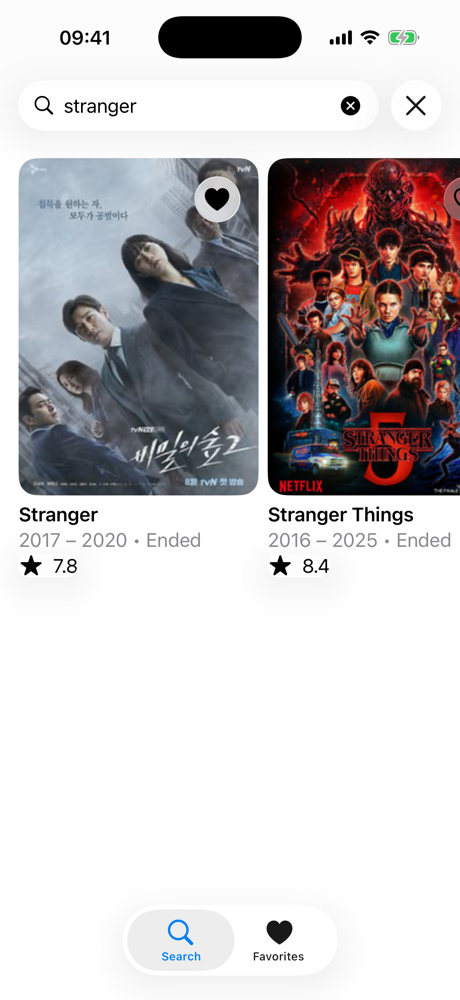
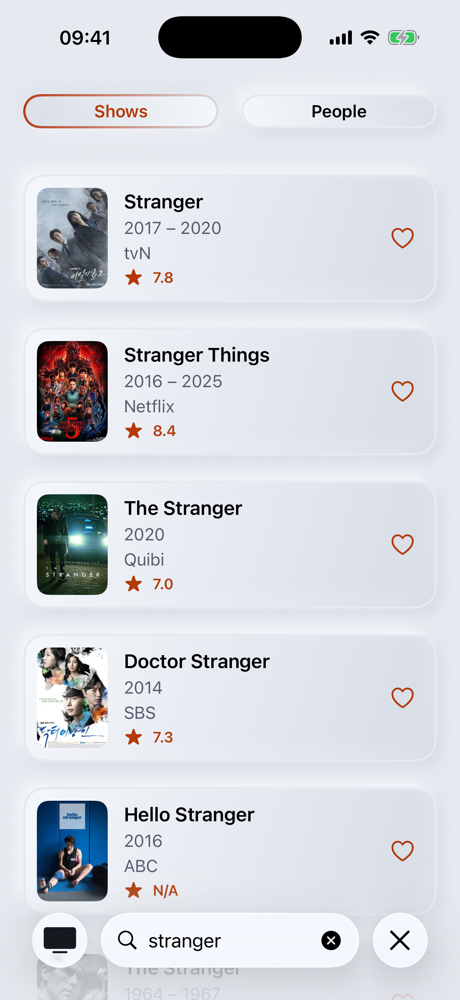
docs: retake the screenshots for the Soft Cinema design
Improvement:
- Show the Tonight tab, search results, the show screen in light and dark mode, and the new Favorites tab.
- Remove the old detail screenshots and the "previous design" note, and narrow the images so five fit on one row.

diff --git a/README.md b/README.md
@@ -7,10 +7,11 @@ See what's on TV tonight, search shows and people, and keep favorites on device.
 [![License: MIT](https://img.shields.io/badge/License-MIT-lightgrey)](LICENSE)
 
 <p align="center">
-  <img src="docs/screenshots/search.png" width="190" alt="Search results for “stranger” shown as a horizontal carousel of poster cards (previous design)">
-  <img src="docs/screenshots/detail.png" width="190" alt="Stranger Things detail screen with poster, rating, favorite button, genres and summary">
-  <img src="docs/screenshots/favorites.png" width="190" alt="Favorites tab listing two saved shows, each with its poster thumbnail, name and years">
-  <img src="docs/screenshots/detail-dark.png" width="190" alt="The detail screen in dark mode">
+  <img src="docs/screenshots/tonight.png" width="160" alt="Tonight tab with NCIS as tonight's pick behind a large hero picture, a strip of seven days and new streaming shows">
+  <img src="docs/screenshots/search.png" width="160" alt="Search results for “stranger” as soft raised rows, each with a poster, years, channel, rating and a heart">
+  <img src="docs/screenshots/show.png" width="160" alt="Stranger Things show screen with its poster as a stretchy header, rating, episode and runtime tiles, and a favorite button">
+  <img src="docs/screenshots/favorites.png" width="160" alt="Favorites tab with the next episode of a saved show in an Up next card, above a grid of saved show posters">
+  <img src="docs/screenshots/show-dark.png" width="160" alt="The Stranger Things show screen in dark mode">
 </p>
 
 ## Features
